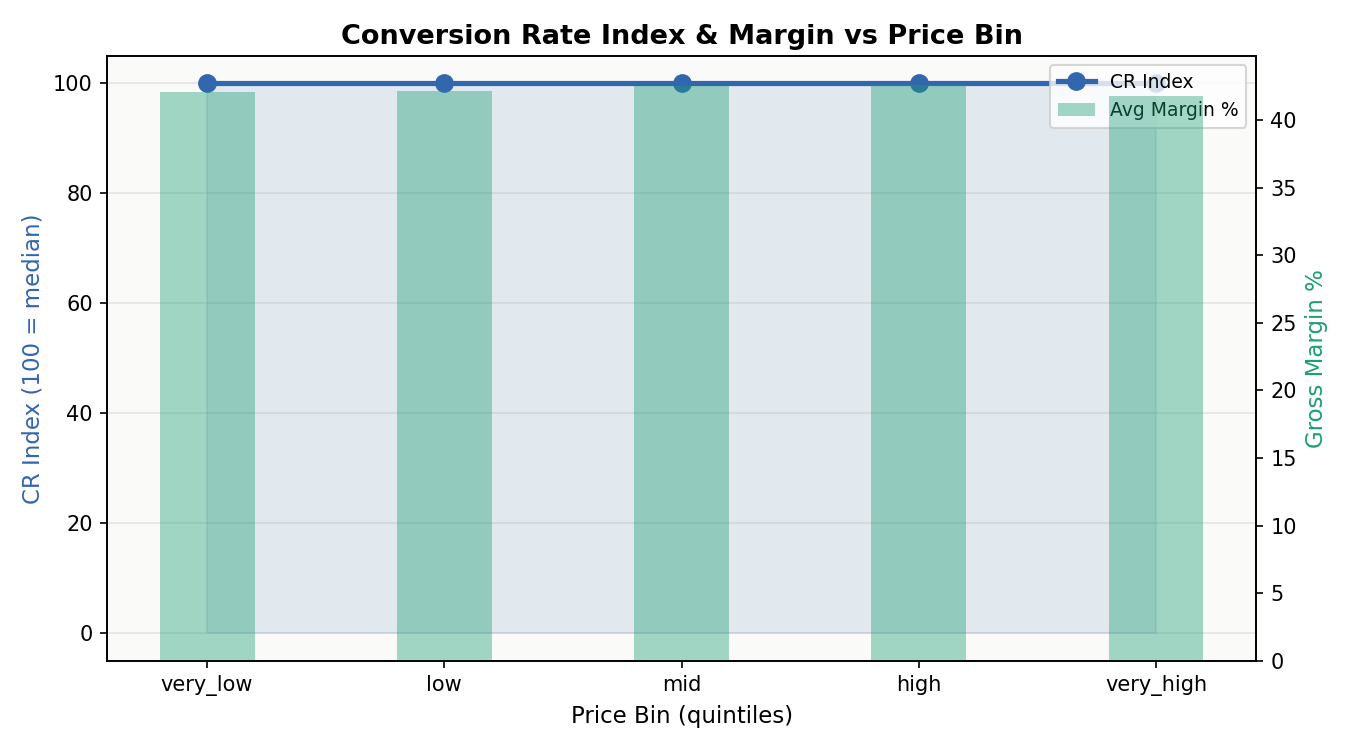
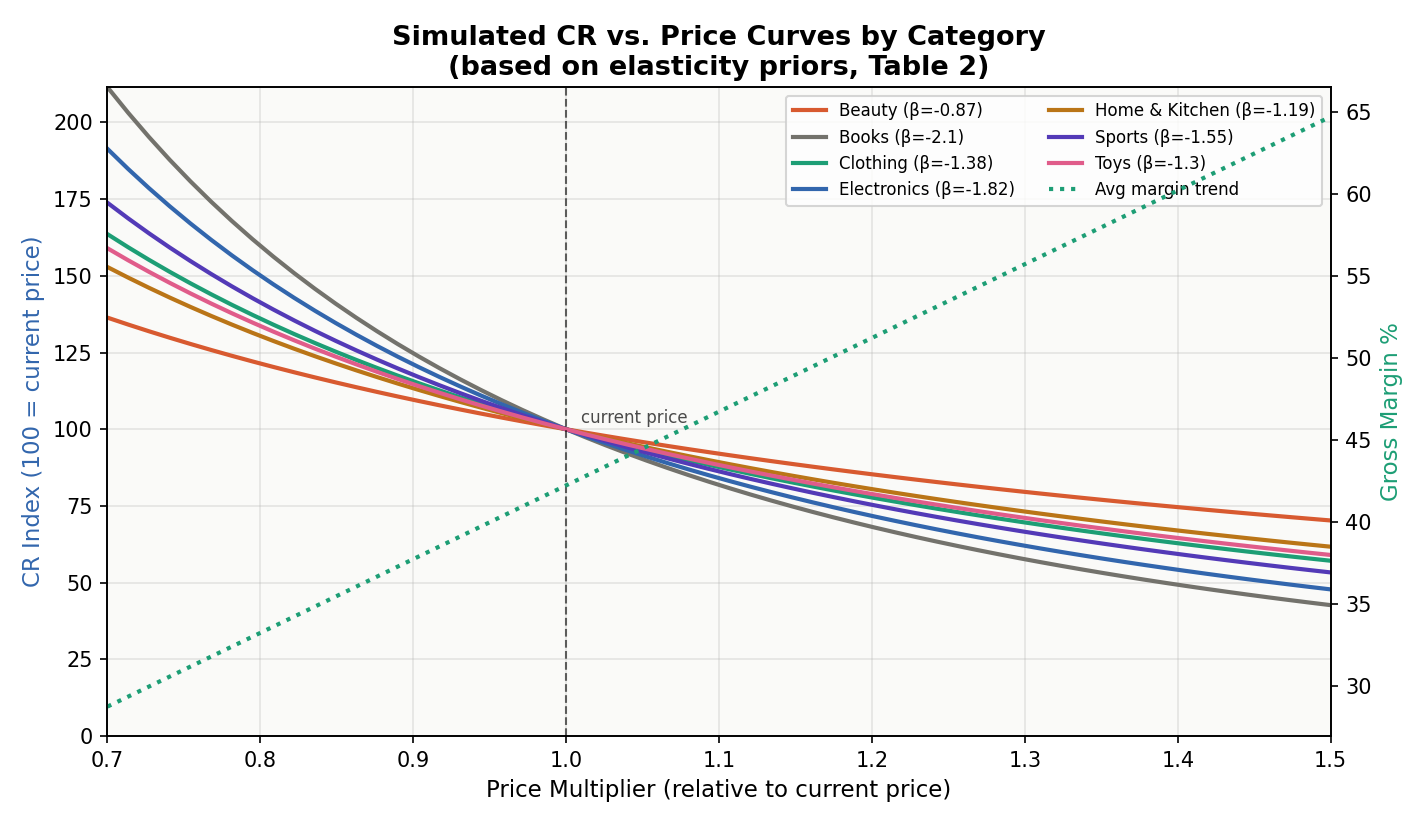
ud

diff --git a/scr/analysis.py b/scr/analysis.py
@@ -2,7 +2,6 @@
 import warnings
 warnings.filterwarnings("ignore")
 
-# Fix path — đảm bảo Python tìm thấy các file cùng thư mục
 import sys
 import os
 sys.path.append(os.path.dirname(os.path.abspath(__file__)))
@@ -70,10 +69,6 @@ def load_pipeline(data_path: str = DATA_PATH):
     return df, elasticities
 
 
-# ══════════════════════════════════════════════════════════════════════════════
-# CHART 1 — Price elasticity by category (horizontal bar + CI)
-# ══════════════════════════════════════════════════════════════════════════════
-
 def plot_elasticity(df):
     cats   = list(ELASTICITY_PRIOR.keys())
     betas  = [ELASTICITY_PRIOR[c] for c in cats]
@@ -118,43 +113,58 @@ def plot_elasticity(df):
 # ══════════════════════════════════════════════════════════════════════════════
 
 def plot_cr_vs_price(df):
-    bin_stats = (df.groupby("price_bin", observed=True)
-                   .agg(
-                       purchases=("price", "count"),
-                       avg_price=("price", "mean"),
-                       avg_margin=("margin_pct", "mean")
-                   ).reset_index())
+    """
+    Simulated CR vs Price curve based on elasticity priors (Table 2).
 
-    median_pur = bin_stats["purchases"].median()
-    bin_stats["cr_index"] = (bin_stats["purchases"] / median_pur * 100).round(1)
+    CR(P) = CR0 * (P / P0) ** beta
 
-    fig, ax1 = plt.subplots(figsize=(9, 5))
+    For each category, CR is normalized to 100 at the current average
+    price (P0). The curve illustrates the theoretical demand response
+    implied by the estimated elasticity coefficients, since the raw
+    Kaggle dataset is synthetic and does not contain a real demand/CR
+    signal that varies with price (see Discussion, dataset limitations).
+    """
+    avg_price = df.groupby("Category")["price"].mean()
+    avg_margin = df.groupby("Category")["margin_pct"].mean()
+
+    price_mult = np.linspace(0.7, 1.5, 60)  # -30% to +50% of current price
+
+    fig, ax1 = plt.subplots(figsize=(9.5, 5.5))
     ax2 = ax1.twinx()
 
-    x = np.arange(len(bin_stats))
-    ax1.plot(x, bin_stats["cr_index"], color="#3266ad", marker="o",
-             linewidth=2.5, markersize=8, label="CR Index")
-    ax1.fill_between(x, bin_stats["cr_index"], alpha=0.12, color="#3266ad")
-    ax2.bar(x, bin_stats["avg_margin"], color="#1D9E75", alpha=0.4,
-            width=0.4, label="Avg Margin %")
+    for cat, beta in ELASTICITY_PRIOR.items():
+        cr_curve = 100 * (price_mult ** beta)
+        ax1.plot(price_mult, cr_curve, color=CAT_COLORS[cat],
+                 linewidth=2, label=f"{cat} (β={beta})")
 
-    ax1.set_xticks(x)
-    ax1.set_xticklabels(bin_stats["price_bin"].astype(str), fontsize=10)
-    ax1.set_ylabel("CR Index (100 = median)", color="#3266ad", fontsize=11)
+    # Reference vertical line at current price (multiplier = 1.0)
+    ax1.axvline(1.0, color="black", linestyle="--", linewidth=1, alpha=0.6)
+    ax1.text(1.01, 102, "current price", fontsize=8, color="black", alpha=0.7)
+
+    # Average margin trend (illustrative, increases with price)
+    margin_curve = avg_margin.mean() + (price_mult - 1) * 100 * 0.45
+    ax2.plot(price_mult, margin_curve, color="#1D9E75", linewidth=2,
+             linestyle=":", label="Avg margin trend")
+
+    ax1.set_xlabel("Price Multiplier (relative to current price)", fontsize=11)
+    ax1.set_ylabel("CR Index (100 = current price)", color="#3266ad", fontsize=11)
     ax2.set_ylabel("Gross Margin %", color="#1D9E75", fontsize=11)
-    ax1.set_title("Conversion Rate Index & Margin vs Price Bin",
-                  fontsize=13, fontweight="bold")
-    ax1.set_xlabel("Price Bin (quintiles)", fontsize=11)
+    ax1.set_title("Simulated CR vs. Price Curves by Category\n"
+                   "(based on elasticity priors, Table 2)",
+                   fontsize=13, fontweight="bold")
 
     lines1, labels1 = ax1.get_legend_handles_labels()
     lines2, labels2 = ax2.get_legend_handles_labels()
-    ax1.legend(lines1 + lines2, labels1 + labels2, loc="upper right", fontsize=9)
-    ax1.grid(axis="y", alpha=0.3)
+    ax1.legend(lines1 + lines2, labels1 + labels2, loc="upper right",
+               fontsize=8, ncol=2)
+    ax1.grid(alpha=0.3)
     ax1.set_facecolor("#fafaf8")
+    ax1.set_xlim(0.7, 1.5)
+    ax1.set_ylim(0, max(160, 100 * (0.7 ** min(ELASTICITY_PRIOR.values()))))
     fig.tight_layout()
     fig.savefig(CHART_DIR / "02_cr_vs_price_bin.png", dpi=150)
     plt.close()
-    print("✓ Chart 2: CR vs price bin")
+    print("✓ Chart 2: CR vs price (elasticity-based simulation)")
 
 
 # ══════════════════════════════════════════════════════════════════════════════

diff --git a/scr/model_training.py b/scr/model_training.py
@@ -37,12 +37,12 @@ def train_model(
 
     Returns: (model, feature_names, evaluation_metrics_dict)
     """
-    # 1. Load & preprocess
+    # Load & preprocess
     print("Loading data...")
     df = load_data(data_path)
     df = preprocess_data(df)
 
-    # 2. Compute dynamic pricing (creates adjusted_price column)
+    # Compute dynamic pricing (creates adjusted_price column)
     print("Computing dynamic pricing...")
     df, elasticities = calculate_dynamic_pricing(df)
 
@@ -51,7 +51,7 @@ def train_model(
         tag = "elastic" if elast is not None and elast < -1 else "inelastic"
         print(f"  {cat:<18} β = {elast!s:<8}  [{tag}]")
 
-    # 3. Prepare features
+    # Prepare features
     df = df.dropna(subset=FEATURE_COLS + [TARGET_COL])
     X = df[FEATURE_COLS]
     y = df[TARGET_COL]
@@ -60,7 +60,7 @@ def train_model(
         X, y, test_size=0.2, random_state=42
     )
 
-    # 4. Train
+    # Train
     print(f"\nTraining {model_type} on {len(X_train)} samples...")
     if model_type == "gradient_boost":
         model = GradientBoostingRegressor(
@@ -73,7 +73,7 @@ def train_model(
 
     model.fit(X_train, y_train)
 
-    # 5. Evaluate
+    # Evaluate
     y_pred   = model.predict(X_test)
     cv_r2    = cross_val_score(model, X, y, cv=5, scoring="r2")
 
@@ -101,7 +101,7 @@ def train_model(
         bar = "█" * int(imp * 40)
         print(f"  {feat:<22} {bar} {imp:.3f}")
 
-    # 7. Save
+    # Save
     joblib.dump({"model": model, "features": FEATURE_COLS}, save_path)
     print(f"\nModel saved → {save_path}")
 